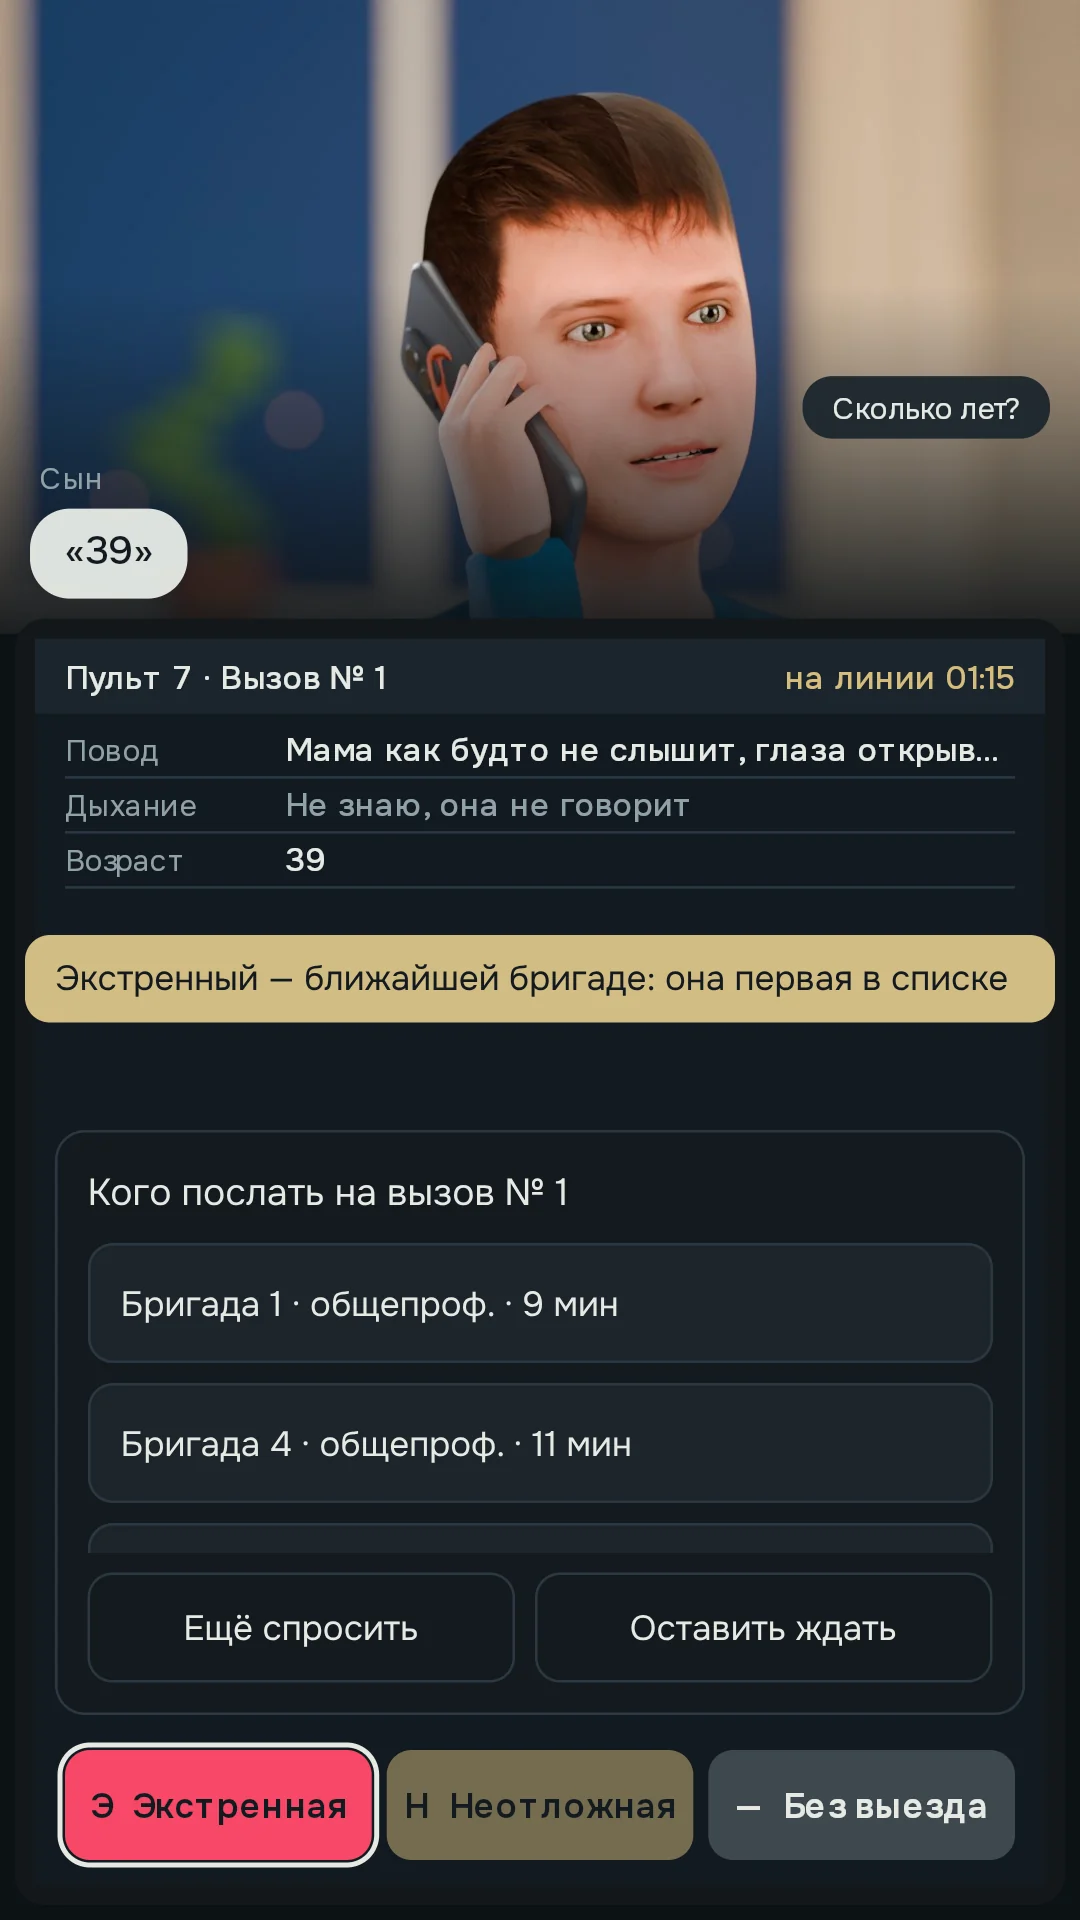
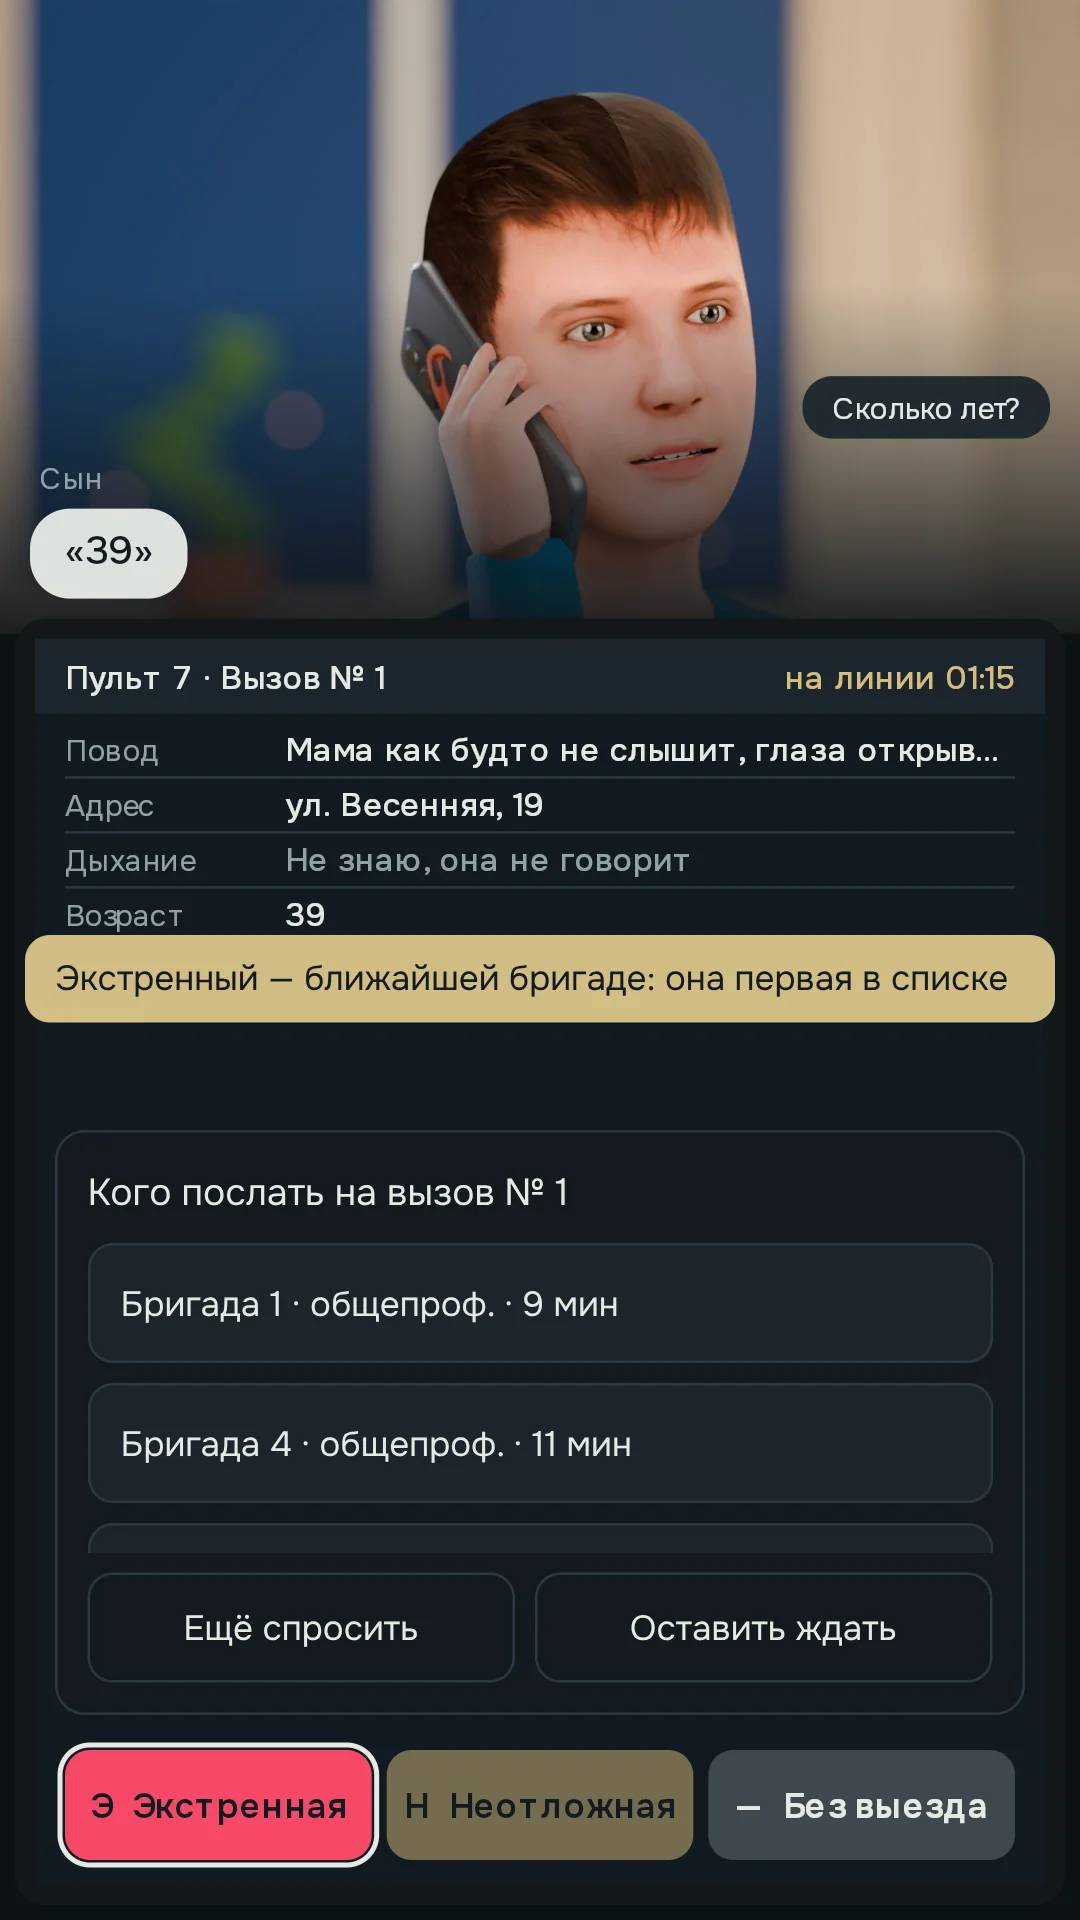
Сайт: страница «Диспетчера» — снимки с адресом вызова (Nefeste/dispatcher@d81d070)
Claude-Session: https://claude.ai/code/session_01FnRrhwdtkVKEUuTF9mmFz1

Changed region(s): [[0.275, 0.4062, 0.6417, 0.5], [0.0611, 0.4062, 0.1833, 0.5]]

diff --git a/src/dispatcher/index.html b/src/dispatcher/index.html
@@ -46,7 +46,7 @@
     <section class="shots shots-4" aria-label="Снимки экрана">
       <figure><a class="shot" href="/assets/games/dispatcher-01-call-full.webp" data-size="1080x1920"><img src="/assets/games/dispatcher-01-call.webp" width="540" height="960" alt="Разговор со звонящим: сын говорит, что мама не отвечает, ниже — вопросы по разделам и кнопки срочности"></a><figcaption>Разговор</figcaption></figure>
       <figure><a class="shot" href="/assets/games/dispatcher-02-crews-full.webp" data-size="1080x1920"><img src="/assets/games/dispatcher-02-crews.webp" width="540" height="960" alt="Экстренный вызов: список свободных бригад с временем доезда, первая — ближайшая" loading="lazy"></a><figcaption>Кого послать</figcaption></figure>
-      <figure><a class="shot" href="/assets/games/dispatcher-03-map-full.webp" data-size="1080x1920"><img src="/assets/games/dispatcher-03-map.webp" width="540" height="960" alt="Пульт диспетчера: карта Нижнего Новгорода, карточка бригады на месте вызова — сколько ещё пробудет и на сколько вызовов хватит укладки; внизу — ждущие вызовы" loading="lazy"></a><figcaption>Пульт и карта</figcaption></figure>
+      <figure><a class="shot" href="/assets/games/dispatcher-03-map-full.webp" data-size="1080x1920"><img src="/assets/games/dispatcher-03-map.webp" width="540" height="960" alt="Пульт диспетчера: карта Нижнего Новгорода, окно «Кого послать на вызов № 3» с адресом — набережная Волжская, дом 10; внизу — ждущий экстренный вызов" loading="lazy"></a><figcaption>Пульт и карта</figcaption></figure>
       <figure><a class="shot" href="/assets/games/dispatcher-04-report-full.webp" data-size="1080x1920"><img src="/assets/games/dispatcher-04-report.webp" width="540" height="960" alt="Итог смены: экстренные с доездом в норму, главная ошибка — какой вопрос стоило задать и во что это обошлось" loading="lazy"></a><figcaption>Разбор смены</figcaption></figure>
       <figure><a class="shot" href="/assets/games/dispatcher-05-call-review-full.webp" data-size="1080x1920"><img src="/assets/games/dispatcher-05-call-review.webp" width="540" height="960" alt="Разбор вызова: весь разговор по минутам, решение и оценка по тому, что было известно в ту минуту" loading="lazy"></a><figcaption>Разбор вызова</figcaption></figure>
       <figure><a class="shot" href="/assets/games/dispatcher-06-station-full.webp" data-size="1080x1920"><img src="/assets/games/dispatcher-06-station.webp" width="540" height="960" alt="Станция между сменами: стол с журналом фонда, укладкой и очками, кнопки «Закупки» и «Смена 2»" loading="lazy"></a><figcaption>Станция</figcaption></figure>
@@ -69,7 +69,7 @@
 
       <h2>Что готово и что в работе</h2>
       <p>Готова «Первая неделя»: семь смен по порядку — учебное утро, вечерний час пик, день с поликлиникой, ночь, пятница с загруженными мостами и длинная ночь субботы. Между сменами — станция: фонд из итогов смен, табель бригад, укладки и закупки. После недели открывается «Свободная смена».</p>
-      <p>В работе — второй район города и вторая неделя, адрес в карточке вызова, мигалки бригад на карте и «Свободная смена» с выбором района. Игра выйдет в RuStore для Android, без интернета и регистрации.</p>
+      <p>В работе — второй район города и вторая неделя, мигалки бригад на карте и «Свободная смена» с выбором района. Игра выйдет в RuStore для Android, без интернета и регистрации.</p>
       <p class="meta"><a href="/privacy.html#upcoming">Политика конфиденциальности</a> · <a href="/en/dispatcher/" hreflang="en" lang="en">English</a></p>
     </article>
   </div>

diff --git a/src/en/dispatcher/index.html b/src/en/dispatcher/index.html
@@ -46,7 +46,7 @@
     <section class="shots shots-4" aria-label="Screenshots">
       <figure><a class="shot" href="/assets/games/dispatcher-01-call-full.webp" data-size="1080x1920"><img src="/assets/games/dispatcher-01-call.webp" width="540" height="960" alt="A call: a son says his mother does not answer; below are questions by topic and the urgency buttons"></a><figcaption>The call</figcaption></figure>
       <figure><a class="shot" href="/assets/games/dispatcher-02-crews-full.webp" data-size="1080x1920"><img src="/assets/games/dispatcher-02-crews.webp" width="540" height="960" alt="An emergency call: free crews listed by travel time, the nearest first" loading="lazy"></a><figcaption>Who to send</figcaption></figure>
-      <figure><a class="shot" href="/assets/games/dispatcher-03-map-full.webp" data-size="1080x1920"><img src="/assets/games/dispatcher-03-map.webp" width="540" height="960" alt="The dispatcher's desk: a map of Nizhny Novgorod and a crew card on site — how long it will stay and how many calls its kit lasts; waiting calls below" loading="lazy"></a><figcaption>Desk and map</figcaption></figure>
+      <figure><a class="shot" href="/assets/games/dispatcher-03-map-full.webp" data-size="1080x1920"><img src="/assets/games/dispatcher-03-map.webp" width="540" height="960" alt="The dispatcher's desk: a map of Nizhny Novgorod, a «who to send to call 3» window with the street address; a waiting emergency call below" loading="lazy"></a><figcaption>Desk and map</figcaption></figure>
       <figure><a class="shot" href="/assets/games/dispatcher-04-report-full.webp" data-size="1080x1920"><img src="/assets/games/dispatcher-04-report.webp" width="540" height="960" alt="End of shift: emergencies reached in time, the main mistake — which question was worth asking and what it cost" loading="lazy"></a><figcaption>Shift review</figcaption></figure>
       <figure><a class="shot" href="/assets/games/dispatcher-05-call-review-full.webp" data-size="1080x1920"><img src="/assets/games/dispatcher-05-call-review.webp" width="540" height="960" alt="A call review: the whole conversation by the minute, the decision and its grade by what was known at that moment" loading="lazy"></a><figcaption>Call review</figcaption></figure>
       <figure><a class="shot" href="/assets/games/dispatcher-06-station-full.webp" data-size="1080x1920"><img src="/assets/games/dispatcher-06-station.webp" width="540" height="960" alt="The station between shifts: a desk with the fund ledger and a kit, buttons «Закупки» and «Смена 2»" loading="lazy"></a><figcaption>The station</figcaption></figure>
@@ -68,7 +68,7 @@
       <p>After the shift every call is reviewed. A decision is judged by what you knew at that minute, the outcome by the truth: bad luck is not a mistake. Signs and time limits come from the Russian Ministry of Health's orders and clinical guidelines. There is no first-aid advice and no doses in the game, and no blood or death scenes.</p>
 
       <h2>Done and in progress</h2>
-      <p>«The first week» is done: seven shifts in order, a station between shifts and a free shift after the week. In progress: a second district and a second week, the address on the call card, flashing lights on the map, and a free shift with a choice of district. The game will come out in RuStore for Android, offline and without sign-up.</p>
+      <p>«The first week» is done: seven shifts in order, a station between shifts and a free shift after the week. In progress: a second district and a second week, flashing lights on the map, and a free shift with a choice of district. The game will come out in RuStore for Android, offline and without sign-up.</p>
       <p class="meta"><a href="/en/privacy.html#upcoming">Privacy policy</a> · <a href="/dispatcher/" hreflang="ru" lang="ru">По-русски</a></p>
     </article>
   </div>
